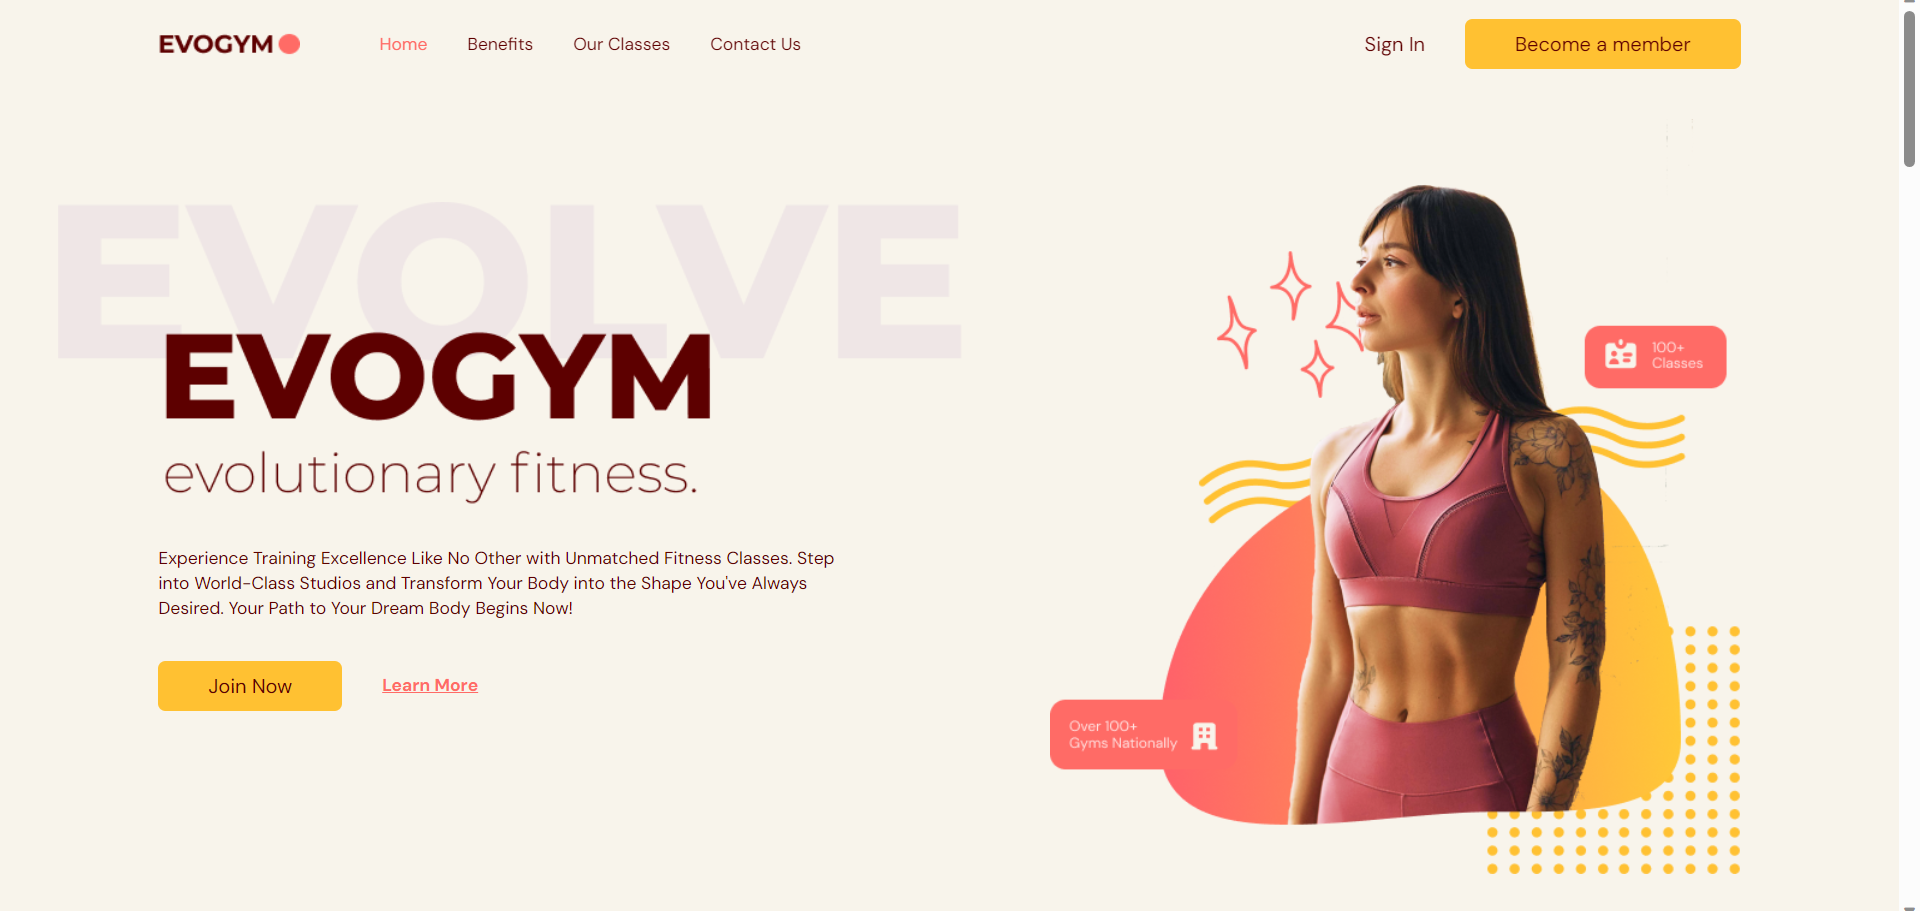
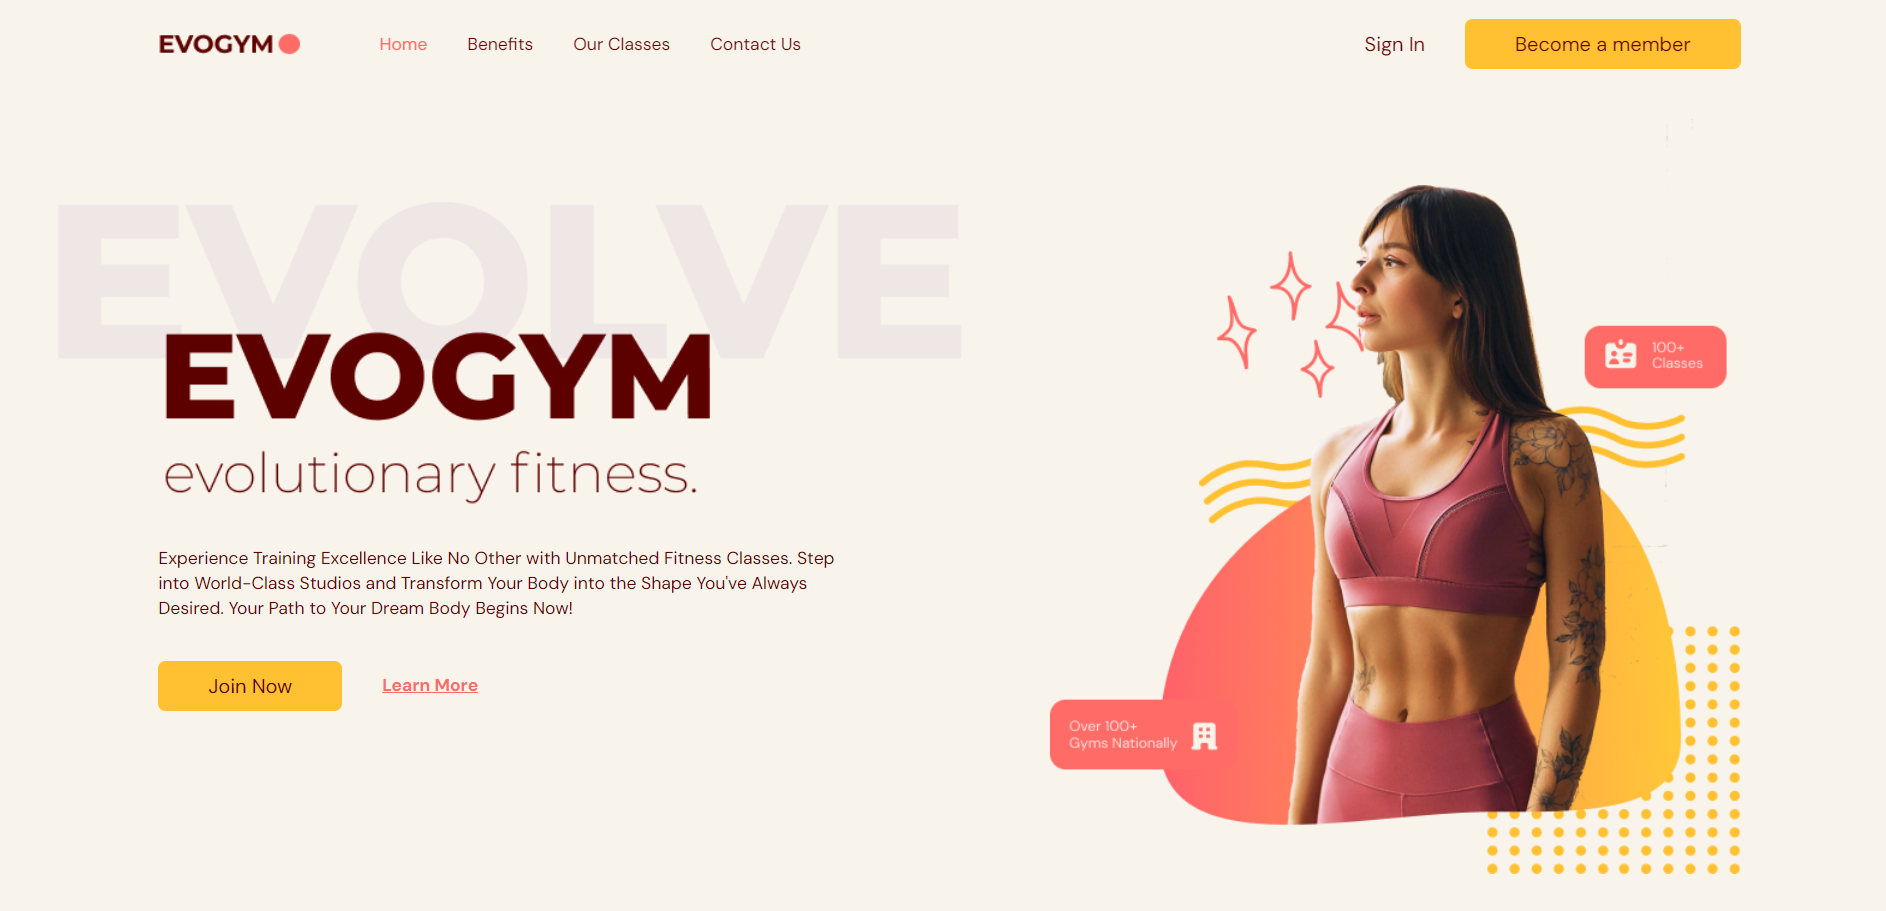
scrollbar style

diff --git a/styles.css b/styles.css
@@ -666,6 +666,12 @@ a {
   color: rgba(0, 0, 0, .3);
 }
 
+/* #Projects{
+  padding-block: 20px;
+  background-color: #7AD7DF;
+  border-block: 3px black solid;
+} */
+
 .work-list{
   display: grid;
   grid-template-columns: repeat(auto-fit, minmax(45%, 1fr));
@@ -674,7 +680,7 @@ a {
 }
 
 .work{
-  border-radius: 9px;
+  /* border-radius: 9px; */
   border: #000000 solid 2px;
   position: relative;
   overflow: hidden;
@@ -754,4 +760,20 @@ a {
     font-size: 14px;
   }
   
+} 
+
+
+/* Scrollbar Track */
+::-webkit-scrollbar {
+  width: 7px; 
+  background-color: #000; 
 }
+::-webkit-scrollbar-thumb {
+  background-color: #FF6961;
+  /* border-radius: 6px; */
+}
+::-webkit-scrollbar-thumb:hover {
+  background-color: #fd5249; 
+}
+
+
